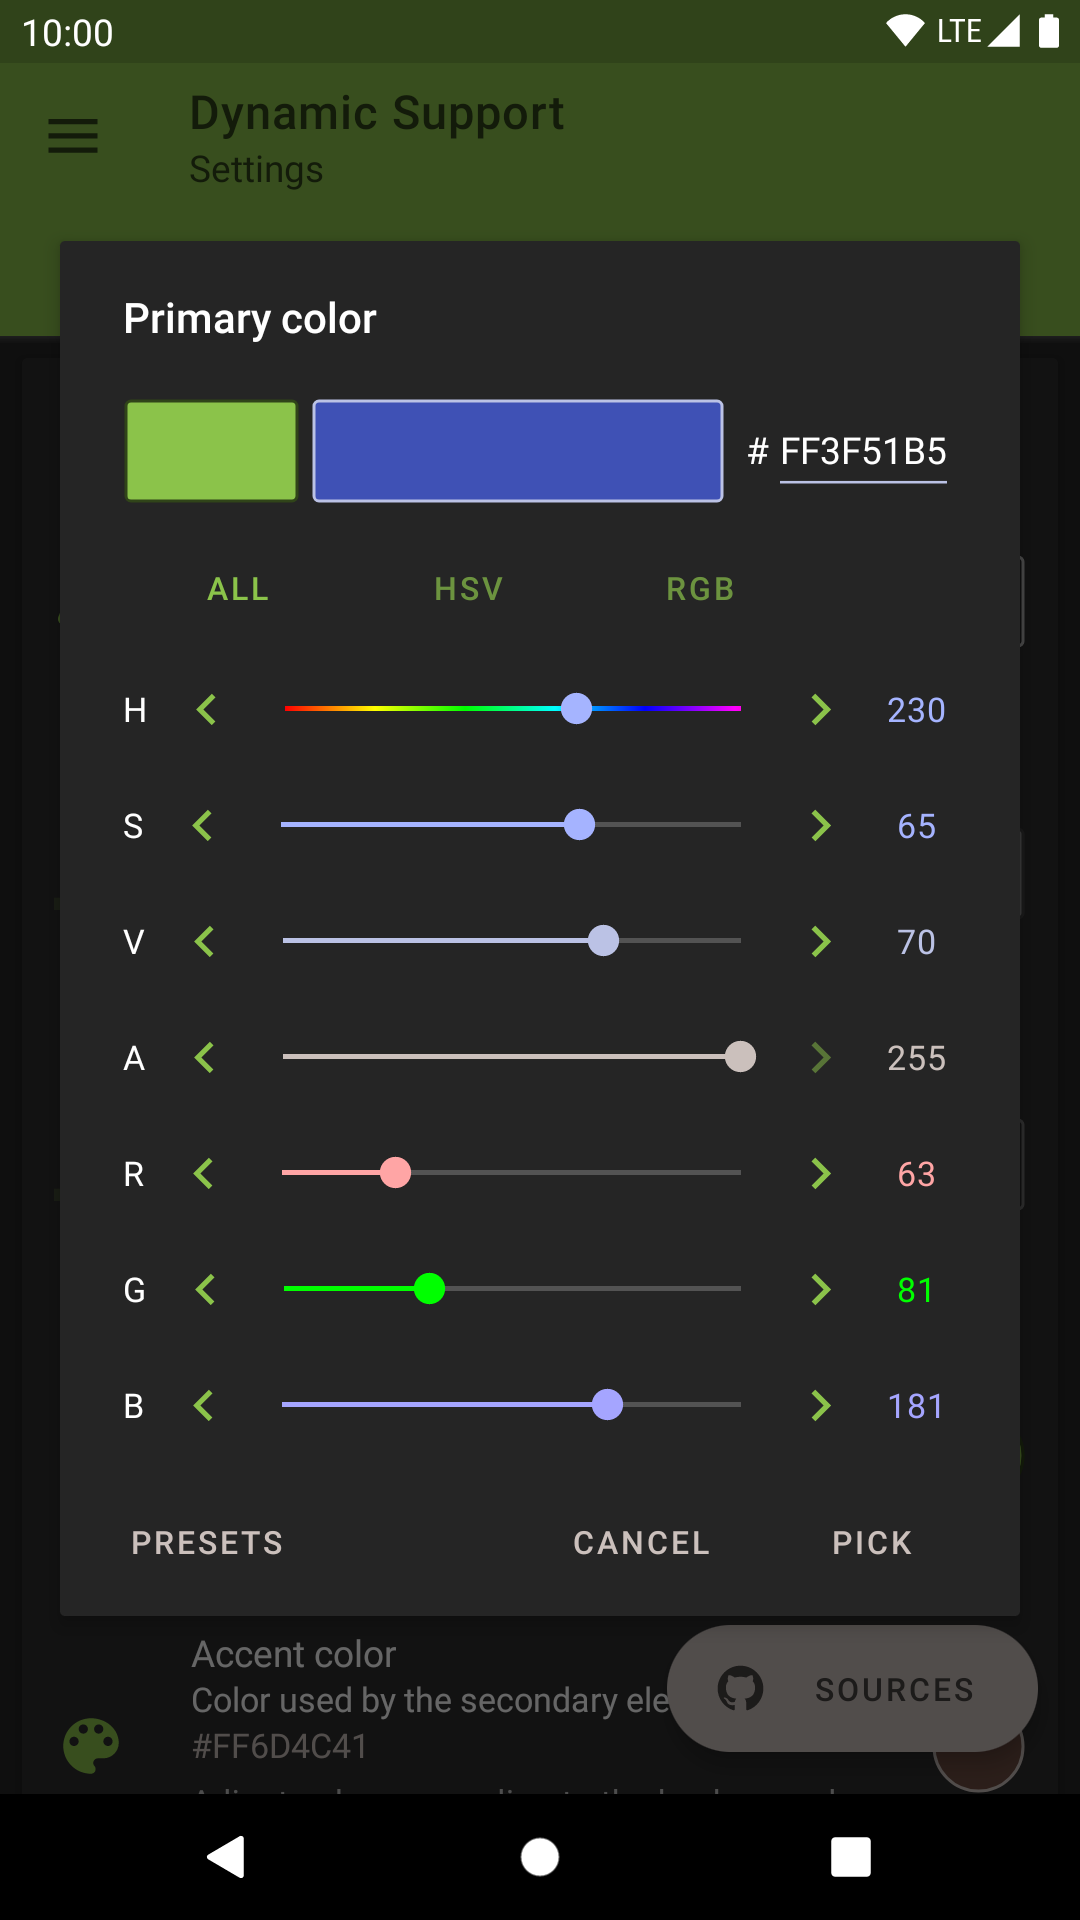
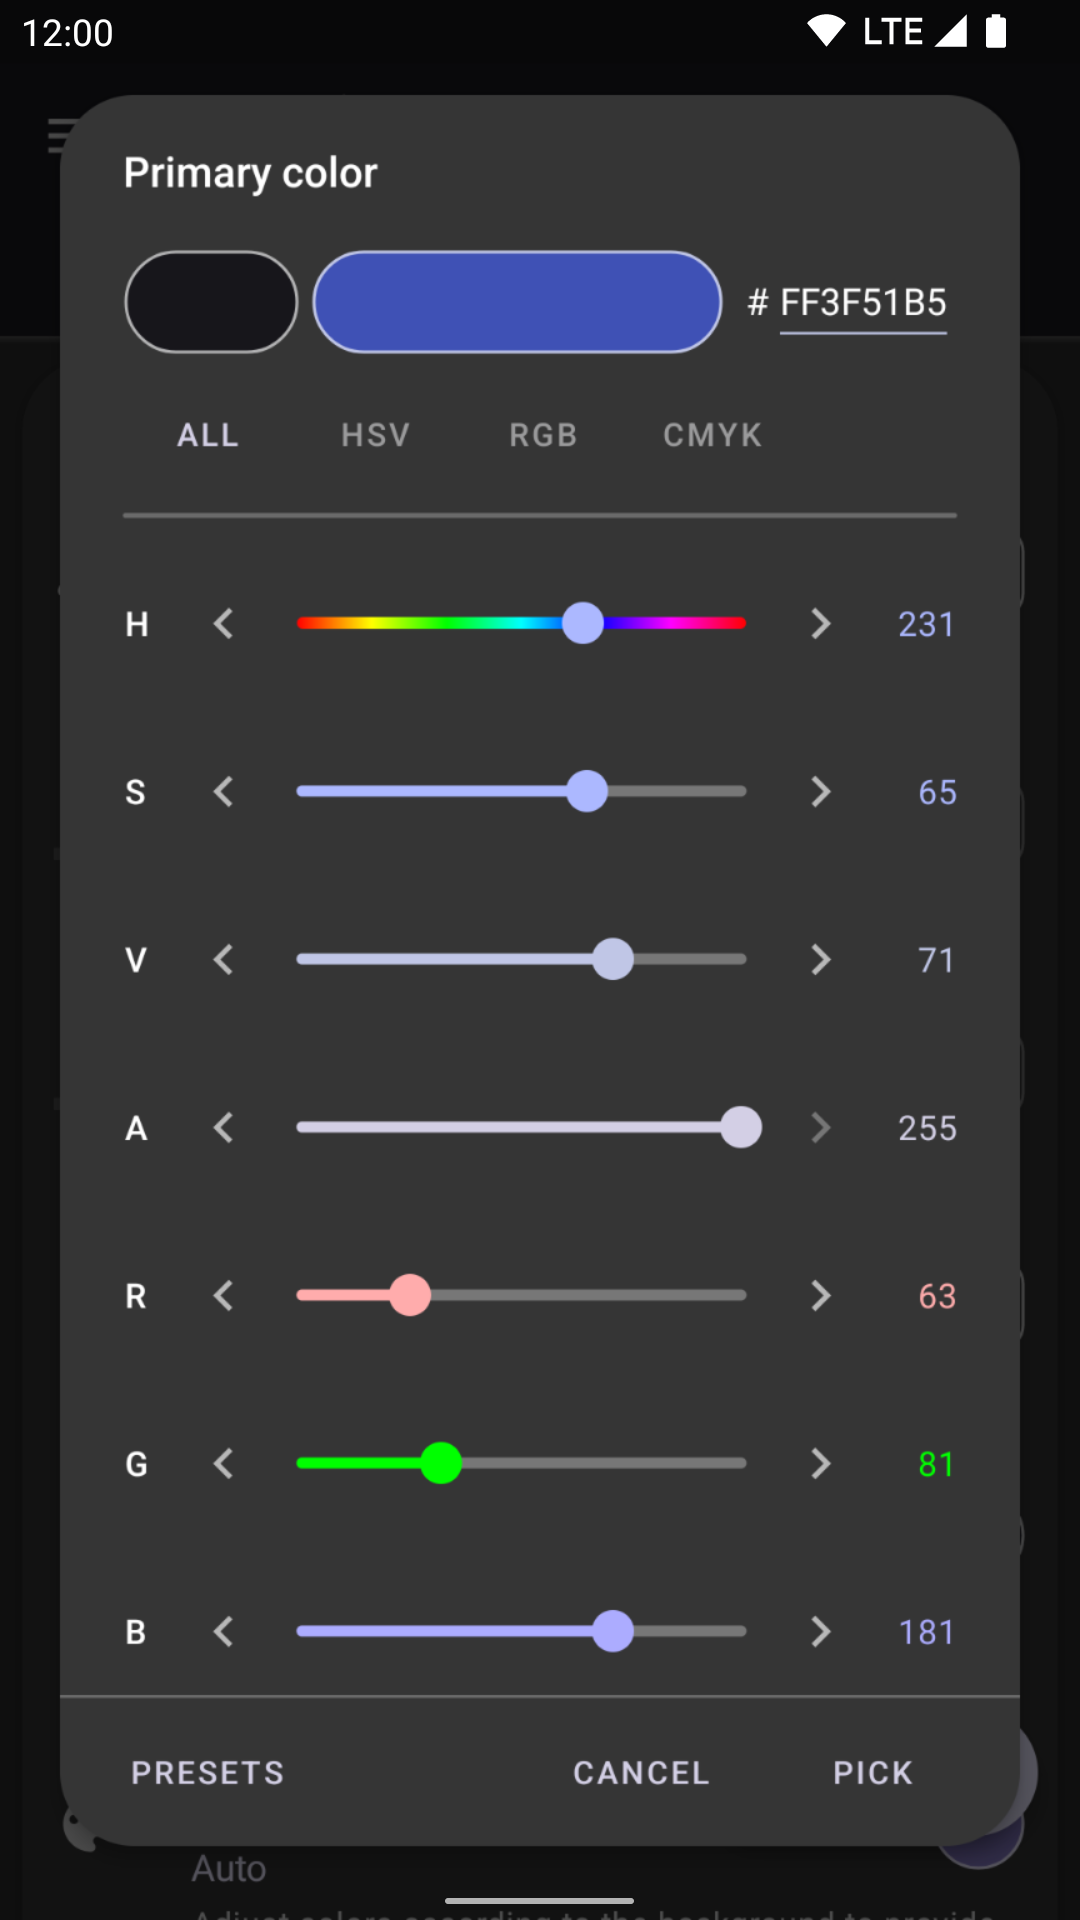
Update README and graphics

diff --git a/README.md b/README.md
@@ -10,9 +10,10 @@ A complete library to build apps for Android 4.0 (API 14) and above with a built
 It is built on top of the latest [app compat library][android-support] to provide best 
 compatibility. 
 
->Since v2.0.0, it uses [AndroidX][androidx] so, first [migrate][android-migrate] your project to 
-AndroidX.
-<br/>Since v3.0.0, it is dependent on Java 8 due to the dependency on [DrawerLayout][drawer-layout].
+>Since v2.0.0, it uses [AndroidX][androidx] so, first [migrate][androidx-migrate] your project 
+to AndroidX.
+<br/>Since v3.0.0, it is dependent on Java 8 due to the dependency on 
+[DrawerLayout][drawer-layout].
 
 <p align="left">
   <img src="./graphics/play/screenshots/phone-1.png" width="280" height="486" hspace="2">
@@ -57,17 +58,17 @@ dependencies {
 
 ## Usage
 It is a collection of activities, fragments, widgets, views and some utility functions required 
-to build a standard Android app. It also provides some in-built use cases like an intro screen, 
+to build a standard Android app. It also provides some built-in use cases like an intro screen, 
 drawer activity, about screen, collapsing app bar, navigation bar view, color picker, multiple 
 locales, runtime permissions, etc. which can be used and customised according to the need.
 
-> For complete reference, please read the [documentation][documentation].
+> For a complete reference, please read the [documentation][documentation].
 
 ### Theme engine
-Each activity and widget can be themed by using the in-built theme engine with background aware 
+Each activity and widget can be themed by using the built-in theme engine with background aware 
 functionality to avoid any visibility issues. Colors can be selected by using the provided 
-[material design colors][material-design-colors] or by selecting a custom color from the in-built 
-picker which supports HEX, HSV and ARGB values.
+[material design colors][material-design-colors] or by selecting a custom color from the built-in 
+picker which supports HEX, HSV, ARGB and CMYK values.
 
 ### Background aware
 Below are the same colors applied on the light and dark backgrounds respectively. But the final 
@@ -148,7 +149,7 @@ The following rules will be applied by this library:
 
 ## Apps using Dynamic Support
 
-All of my apps are using some or all part of this library. You can download them from Google Play. 
+All of my apps are using some or all part of this library. You can download them via Google Play. 
 Please email me if you are using this library and want to feature your app here. Also, please 
 checkout the `Rotation` and `Everyday` apps to experience the full potential of this library.
 
